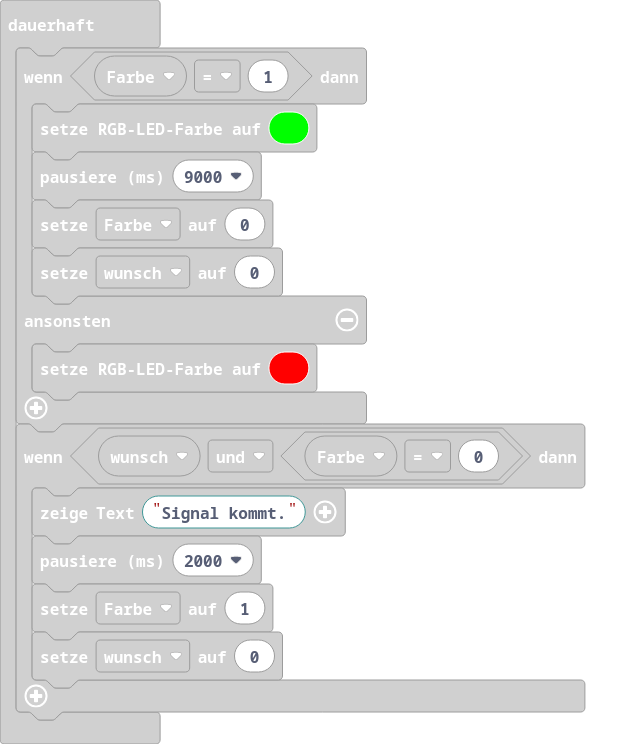
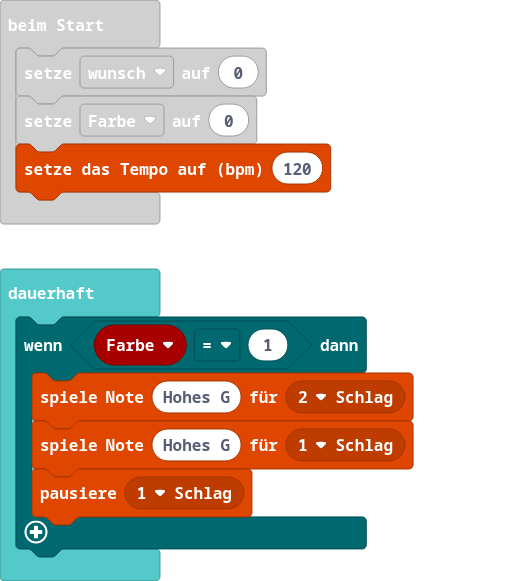
Aktualisiere main.blocks, main.ts

diff --git a/main.ts b/main.ts
@@ -4,6 +4,7 @@ input.onButtonPressed(Button.A, function () {
 let wunsch = 0
 wunsch = 0
 let Farbe = 0
+music.setTempo(120)
 basic.forever(function () {
     if (Farbe == 1) {
         basic.setLedColor(0x00ff00)
@@ -18,5 +19,12 @@ basic.forever(function () {
         basic.pause(2000)
         Farbe = 1
         wunsch = 0
+    }
+})
+basic.forever(function () {
+    if (Farbe == 1) {
+        music.playTone(784, music.beat(BeatFraction.Double))
+        music.playTone(784, music.beat(BeatFraction.Whole))
+        music.rest(music.beat(BeatFraction.Whole))
     }
 })
